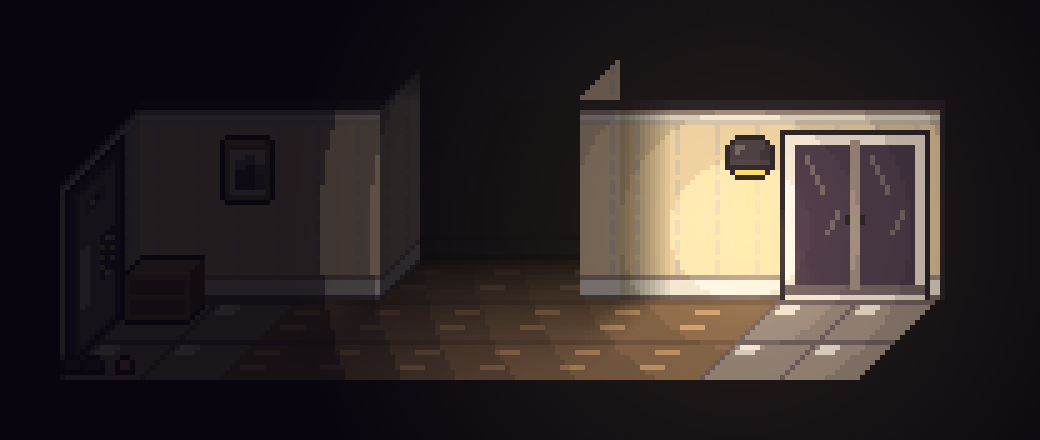
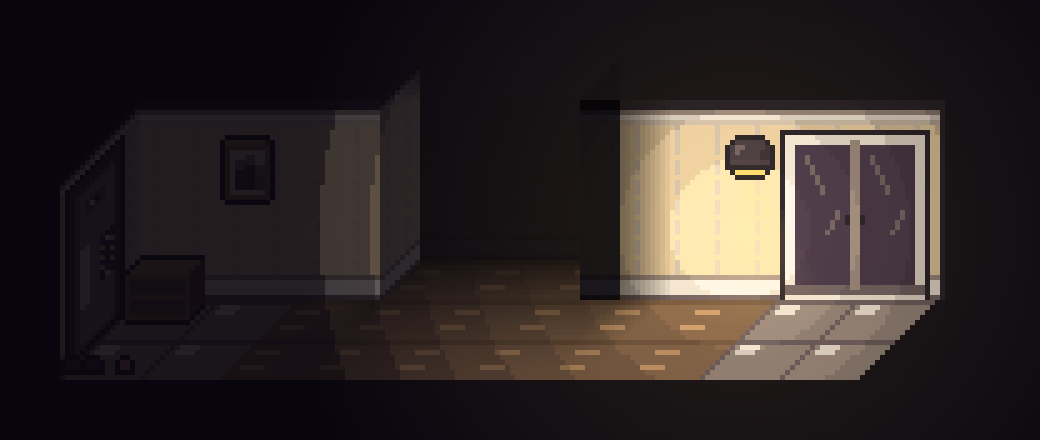
Corridor: right wall strip darkened after lighting
Claude-Session: https://claude.ai/code/session_01FPZSaKiVNU2zED737yZX4w

Changed region(s): [[0.5538, 0.1477, 0.6154, 0.6795]]

diff --git a/tools/render_room.py b/tools/render_room.py
@@ -119,7 +119,8 @@ def render_room(path, scale=1):
                     if 0 <= X < CW:
                         r_, g_, b_, a_ = px[X, Y]
                         if a_: px[X, Y] = (int(r_ * kk), int(g_ * kk), int(b_ * kk), a_)
-        if rc:                                                              # ㄴ 자 벽: 바깥 벽의 왼쪽 끝면(두께)을 안쪽 검은 면 오른쪽에 보이게 한다
+        strip_px = []
+    if rc:                                                              # ㄴ 자 벽: 바깥 벽의 왼쪽 끝면(두께)을 안쪽 검은 면 오른쪽에 보이게 한다
             xm = int(X0 + SK * D + (rb + 1) * T); base_y = int(Y0 - SS * D); top_y = int(by - wallh)
             for off in range(int(SK * RD)):
                 X = xm - int(SK * RD) + off; sh = 0                                  # 원래 벽 왼쪽에 붙이고, 원래 벽이 이 면보다 앞(위)에 있다
@@ -128,7 +129,7 @@ def render_room(path, scale=1):
                     if z < 16: nm, ty = names['base'], 15 - int(z)
                     elif z < 32: nm, ty = names['mid'], 15 - int(z - 16)
                     else: nm, ty = names['top'], int(wallh - 1 - z)
-                    r_, g_, b_, a_ = get(nm, int(off + 5), ty); px[X, Y] = (int(r_ * .5), int(g_ * .5), int(b_ * .55), a_)
+                    r_, g_, b_, a_ = get(nm, int(off + 5), ty); px[X, Y] = (int(r_ * .34), int(g_ * .34), int(b_ * .38), a_); strip_px.append((X, Y))                       # 조명 뒤에 한 번 더 어둡게 눌러 준다
     emitters = []
     def stamp(name, left, bottom):                           # 정면 스프라이트 (왼쪽 아래 모서리 기준)
         sp = lib[name]; img.alpha_composite(sp, (int(round(left)), int(round(bottom - sp.height))))
@@ -209,6 +210,9 @@ def render_room(path, scale=1):
             emitters.append((X0 + dx0 + dw / 2, Y0 - 8, 54, float(glow), (232, 207, 106)))
     # 조명과 톤
     bg = Image.new('RGBA', img.size, (8, 6, 12, 255)); bg.alpha_composite(img); img = R.shade(bg, emitters, m['ambient'], False)
+    p3 = img.load()
+    for (X, Y) in strip_px:
+        r_, g_, b_, a_ = p3[X, Y]; p3[X, Y] = (int(r_ * .3), int(g_ * .3), int(b_ * .36), a_)
     if m['tone']:
         p2 = img.load()
         for y in range(img.height):
